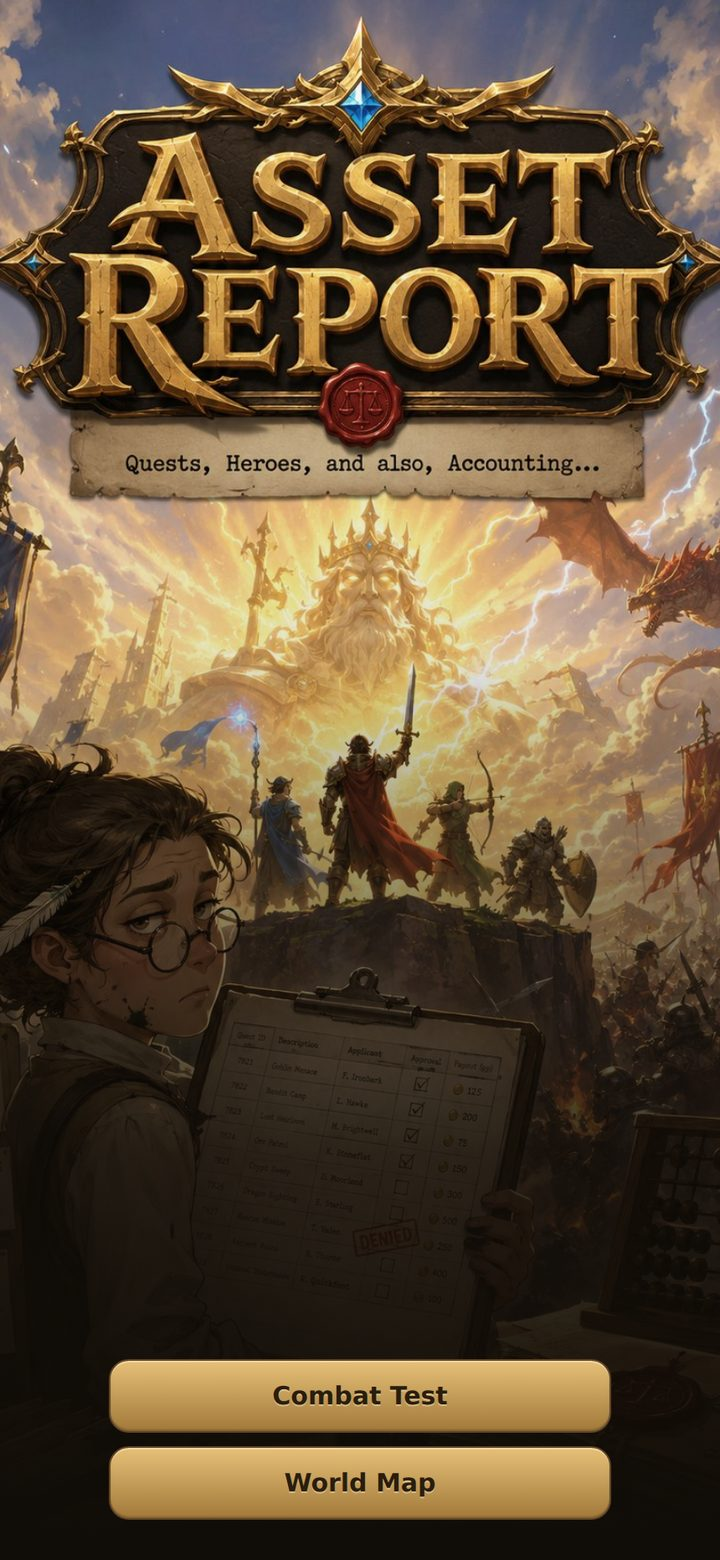
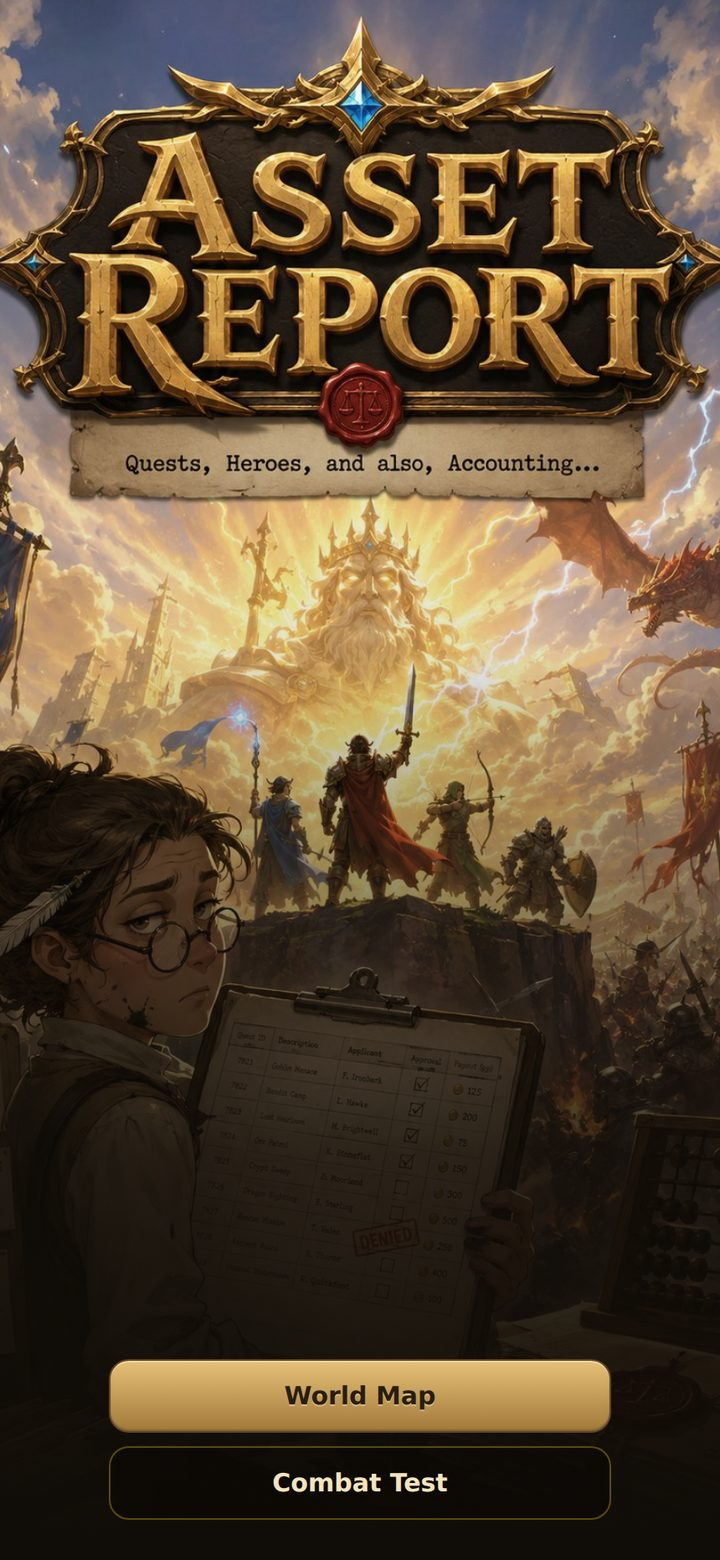
fix(ui): Review #2 polish — Start hierarchy, map contrast, certainty a11y
Applies the non-blocking findings from the 4-persona Review #2:
- Start: World Map is the primary button, Combat Test the secondary variant
  (a dev harness shouldn't share top billing with the game entry).
- Map: the field uses --surface-0 so the gold-bordered nodes read as distinct
  tappable regions again (they blended on the warmer --surface-2).
- Certainty chips: darken --cv-accent for label contrast (AA), make the claimed
  hatch the same hue (lightened, not a separate cyan), and lift the chip
  label/tag off --text-dim so they clear contrast on the teal fill.
- Cleanup: dropped the unused --gold-soft token; trimmed the Panel fallback
  comment (the sprite inlines <4 KB, so the 404 path can't occur).

Claude-Session: https://claude.ai/code/session_015nDwUHaHPSLAVvkERzxPPS

Changed region(s): [[0.1528, 0.8923, 0.8556, 0.9846]]

diff --git a/web/src/ui/theme/tokens.css b/web/src/ui/theme/tokens.css
@@ -22,7 +22,6 @@
      desaturated). This is the DEFAULT BUTTON fill, not the neon --c-gold used
      for bright text/accents. Reproduced by the kit <Button> everywhere. */
   --gold-soft-hi: #e6c078;
-  --gold-soft: #c69f57;
   --gold-soft-lo: #a2793a;
   --bronze: #5f4527;
   --ink-gold: #2a1d0c;
@@ -31,10 +30,10 @@
      magic), replacing royal-purple for the §5 verified/claimed chips and trait
      badges so they de-purple onto the warm theme while staying distinct. Solid =
      verified, hatched = claimed, dashed = rumor is preserved by the chip styles. */
-  --cv-accent: #2d7593;
-  --cv-accent-deep: #163f52;
-  --cv-hatch: rgba(96, 176, 206, 0.55);
-  --cv-hatch-dim: rgba(96, 176, 206, 0.12);
+  --cv-accent: #2a6a84;
+  --cv-accent-deep: #143848;
+  --cv-hatch: rgba(70, 150, 180, 0.5);
+  --cv-hatch-dim: rgba(70, 150, 180, 0.14);
 
   /* Surfaces — warm charcoal/brown, aligned to the "Asset Report" key art
      (gold-on-dark, no royal-purple). Sprite + combat-semantic tokens below are

diff --git a/web/src/ui/kit/Panel.module.css b/web/src/ui/kit/Panel.module.css
@@ -3,10 +3,10 @@
    at author time and committed under src/assets (import-bundled, so only this one
    sprite ships).
 
-   Graceful fallback: the `border` shorthand paints a real translucent-gold hairline
-   FIRST; `border-image` then overlays the decorative frame. If the sprite 404s
-   (renamed/missing asset, case mismatch on CI) the element keeps the plain gold
-   border instead of losing all definition.
+   Fallback: the `border` shorthand paints a real translucent-gold hairline under the
+   `border-image`, so the element keeps definition if the frame ever fails to paint.
+   (The sprite inlines as a data URI under Vite's 4 KB limit, so a 404 can't actually
+   occur while it stays sub-4 KB — the border is belt-and-braces.)
 
    No `fill`: only the 16px frame ring is sliced, so the card keeps its own dark
    token background rather than Kenney's parchment centre — it stays on-theme in the

diff --git a/web/src/ui/heroes/HeroCard.module.css b/web/src/ui/heroes/HeroCard.module.css
@@ -229,6 +229,12 @@
 }
 .stat[data-certainty="rumor"] { background: transparent; border-style: dashed; border-color: var(--stroke-soft); }
 .stat[data-certainty="rumor"] .statValue { color: var(--text-dim); }
+/* On the colour-filled chips, lift the secondary label/tag off --text-dim so they
+   clear contrast on the teal fill (a11y); rumor chips (dark/transparent) keep dim. */
+.stat[data-certainty="verified"] .statLabel,
+.stat[data-certainty="claimed"] .statLabel,
+.stat[data-certainty="verified"] .statTag,
+.stat[data-certainty="claimed"] .statTag { color: var(--text-strong); }
 
 .legend {
   display: flex;

diff --git a/web/src/ui/StartScreen.tsx b/web/src/ui/StartScreen.tsx
@@ -15,11 +15,11 @@ export function StartScreen({ onCombatTest, onNodeTest }: Props) {
     <div className={styles.screen}>
       <h1 className={styles.srOnly}>Asset Report</h1>
       <nav className={styles.menu} aria-label="Main menu">
-        <Button className={styles.menuBtn} onClick={onCombatTest}>
-          Combat Test
-        </Button>
         <Button className={styles.menuBtn} onClick={onNodeTest}>
           World Map
+        </Button>
+        <Button variant="secondary" className={styles.menuBtn} onClick={onCombatTest}>
+          Combat Test
         </Button>
       </nav>
     </div>

diff --git a/web/src/ui/node/NodeTestScreen.module.css b/web/src/ui/node/NodeTestScreen.module.css
@@ -38,7 +38,9 @@
 .map {
   position: relative;
   flex: 1;
-  background-color: var(--surface-2);
+  /* Darkest surface so the gold-bordered nodes read as distinct tappable regions
+     against the warm field (they blended on the lighter --surface-2). */
+  background-color: var(--surface-0);
   background-position: center;
   background-size: cover;
   background-repeat: no-repeat;
